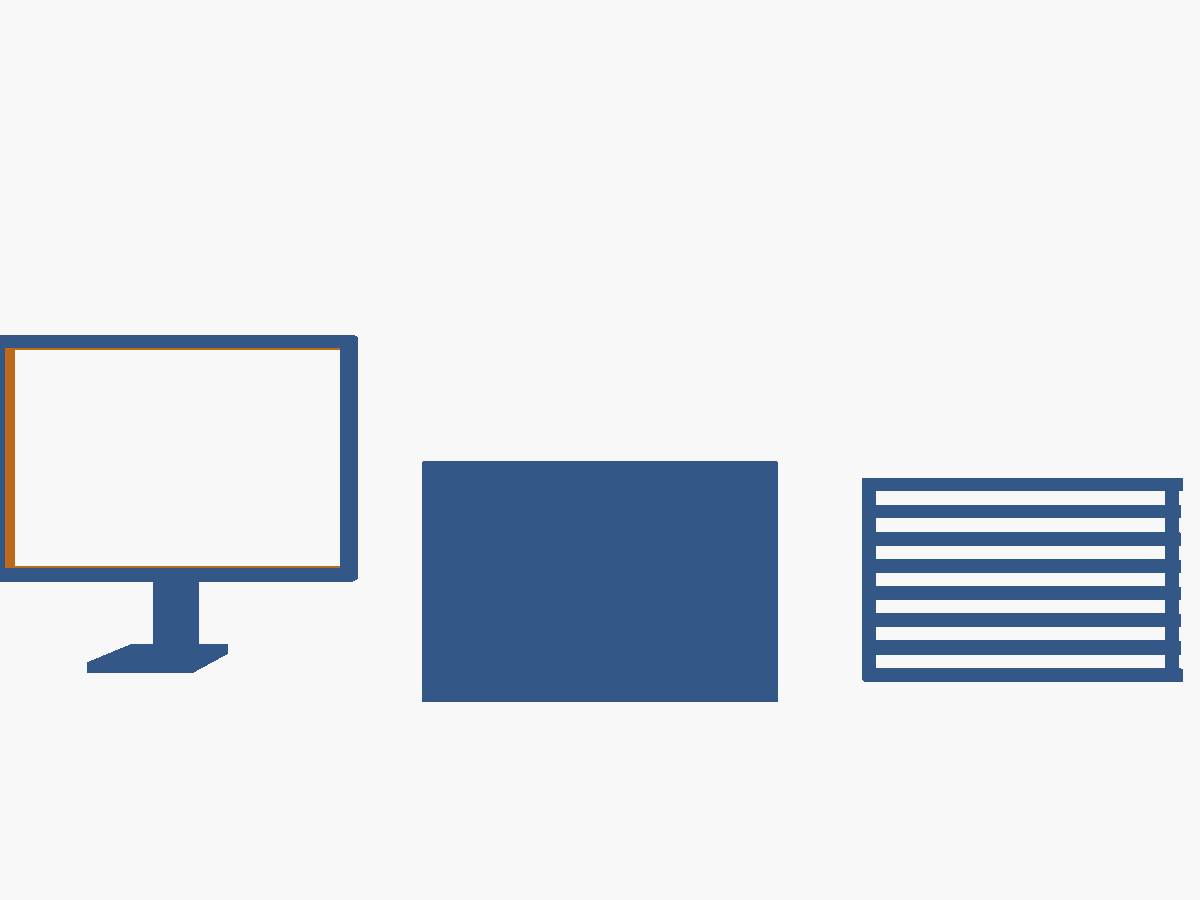
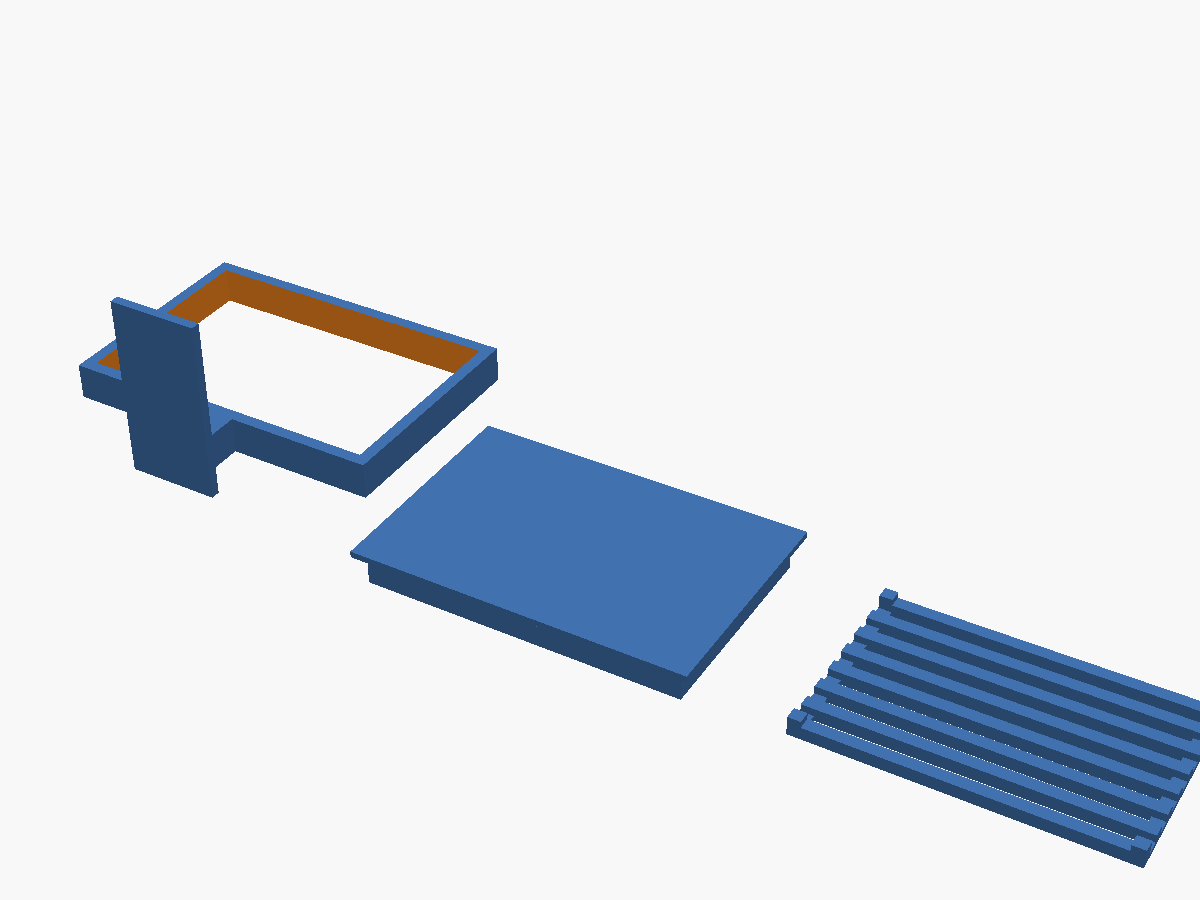
Fix print render cropping and README dimension
CAM_PRINT was clipping the gitter at the right edge — three parts
span ~364mm in X. Camera shifted/widened so all parts are visible.
README updated from ~330mm to ~365mm.

Changed region(s): [[0.0, 0.28, 0.6783, 0.7778], [0.6475, 0.5289, 1.0, 0.9644]]

diff --git a/README.md b/README.md
@@ -23,7 +23,7 @@ Wandmontierte 3D-druckbare Seifenschale aus drei Teilen, geklebt mit einem Tesa-
 
 ![Druck-Layout](docs/img/print.png)
 
-Die kombinierte `print.stl` legt alle drei Teile nebeneinander (~330 mm gesamt). Für Druckbetten kleiner als 350 mm pro Teil eine eigene Datei verwenden (`wandhalterung.stl`, `schale.stl`, `gitter.stl`).
+Die kombinierte `print.stl` legt alle drei Teile nebeneinander (~365 mm gesamt). Für Druckbetten kleiner als 365 mm pro Teil eine eigene Datei verwenden (`wandhalterung.stl`, `schale.stl`, `gitter.stl`).
 
 ## Bauen
 
